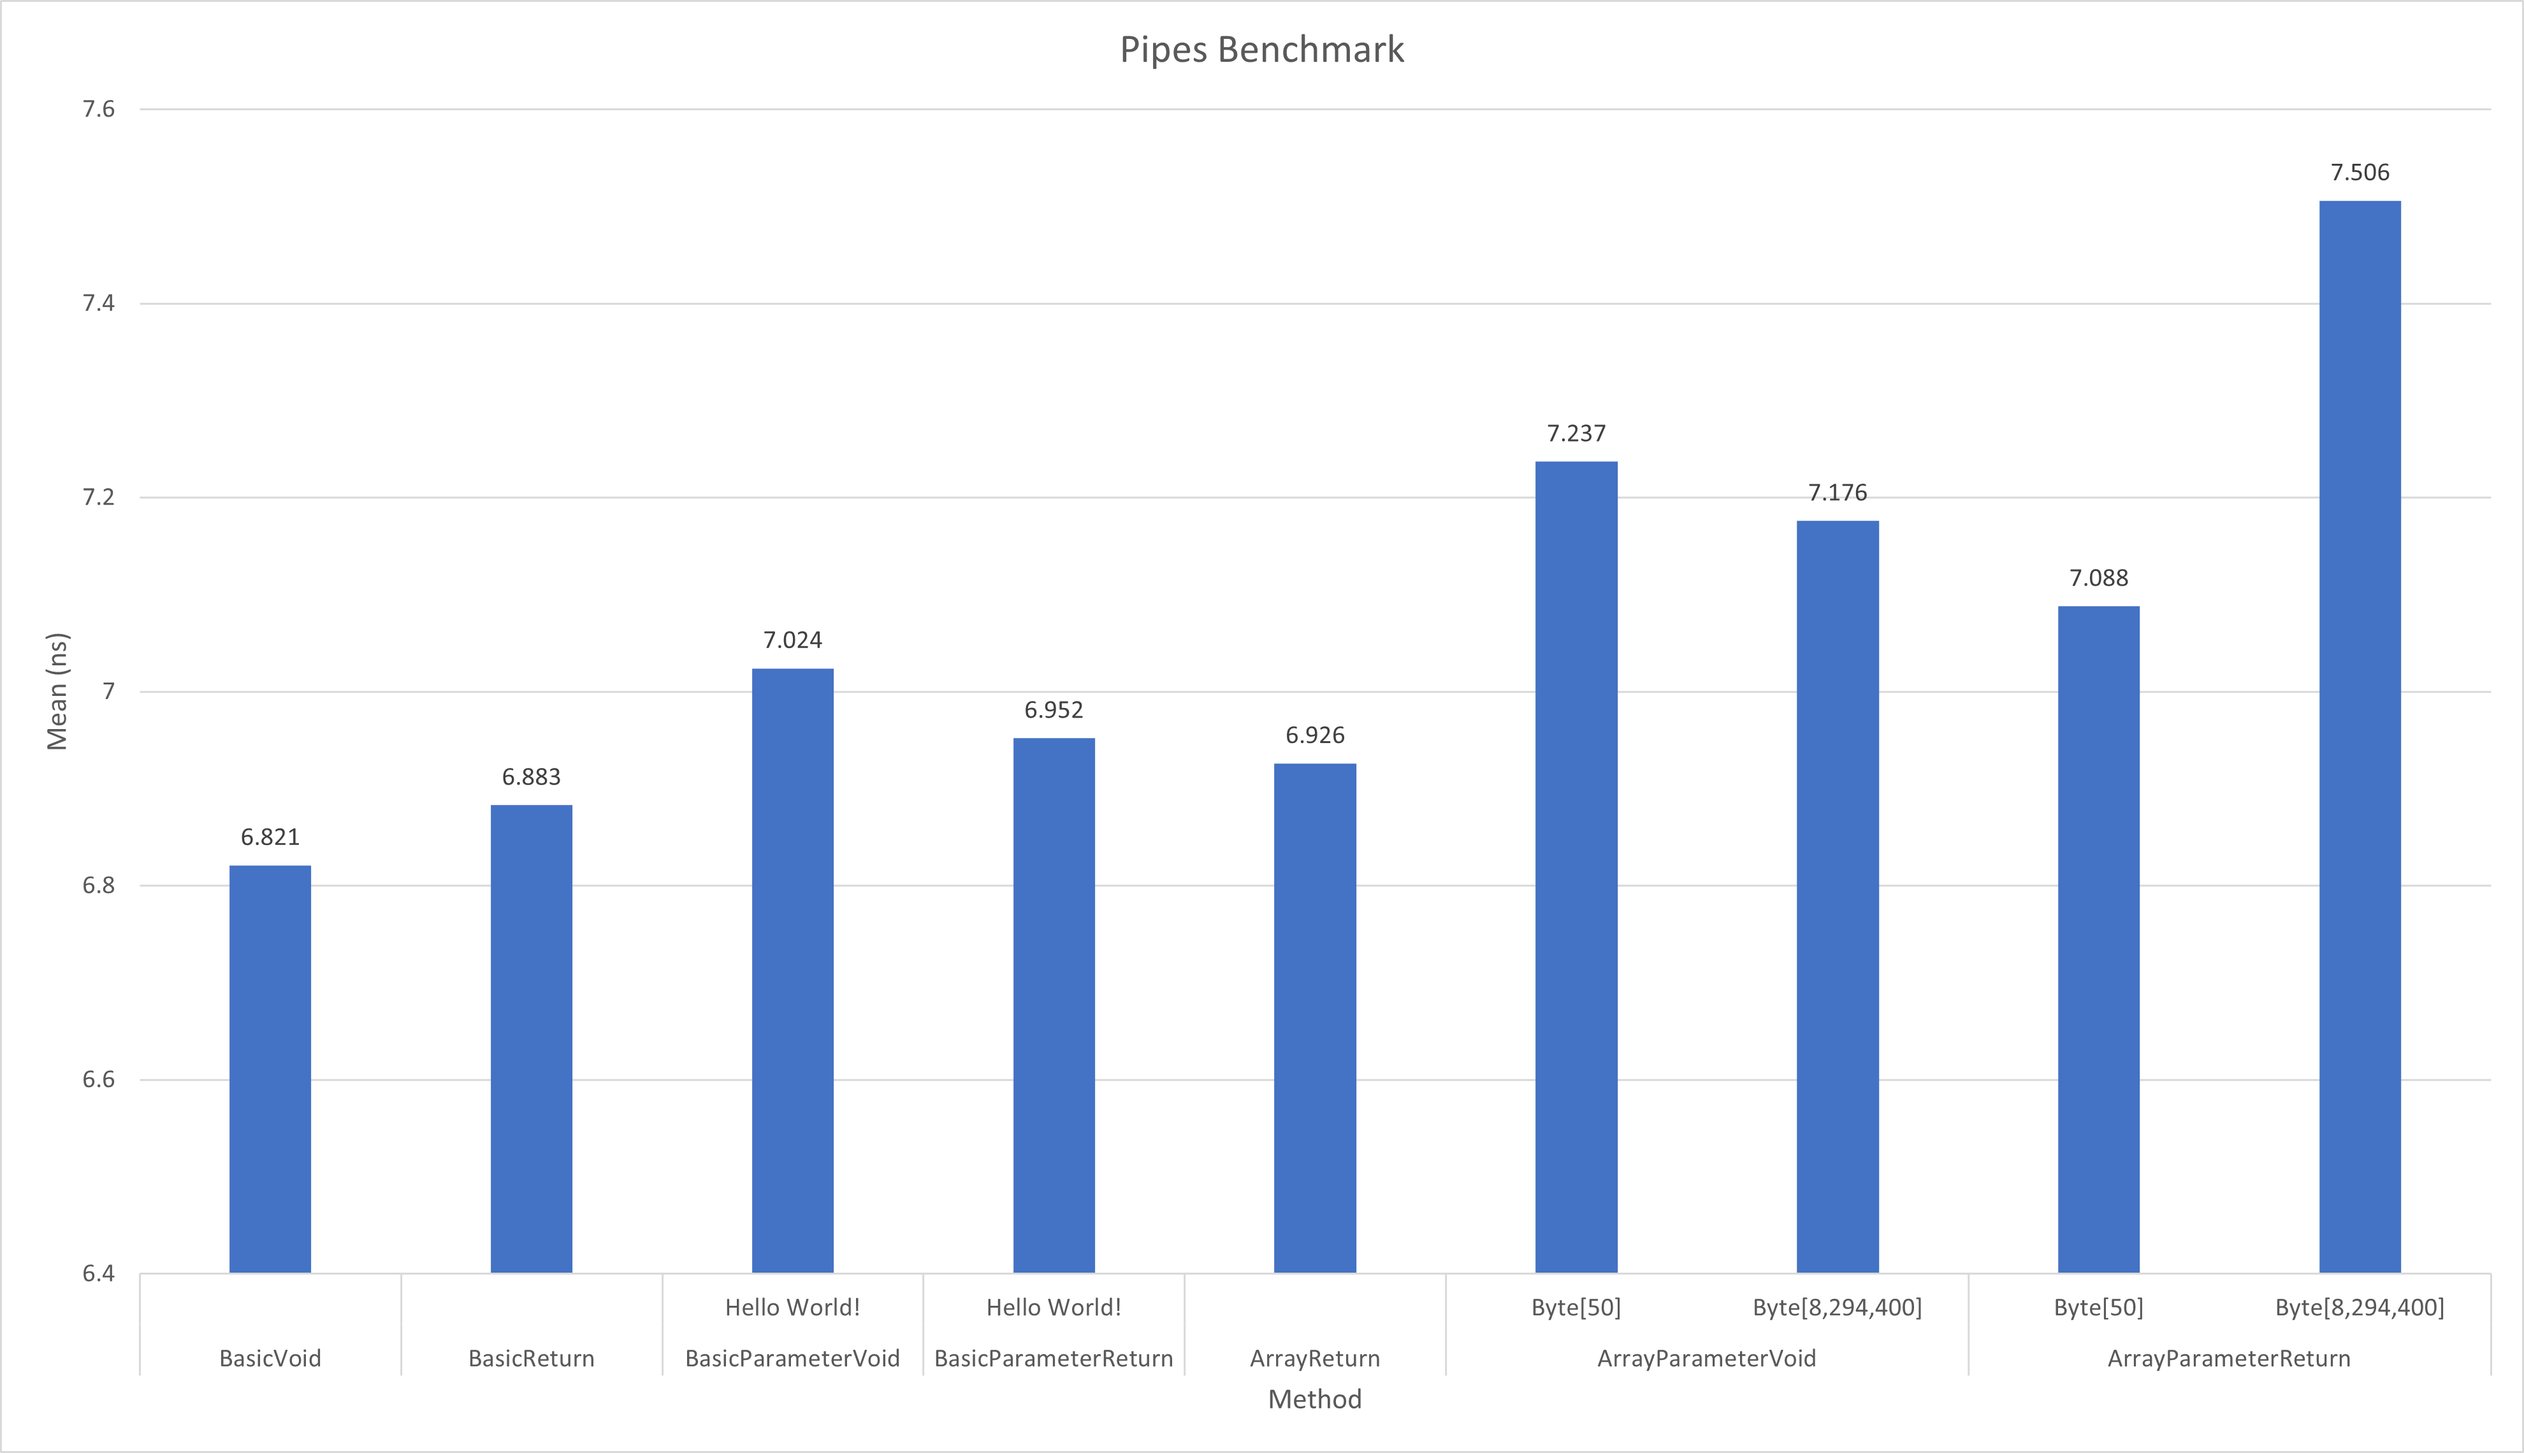
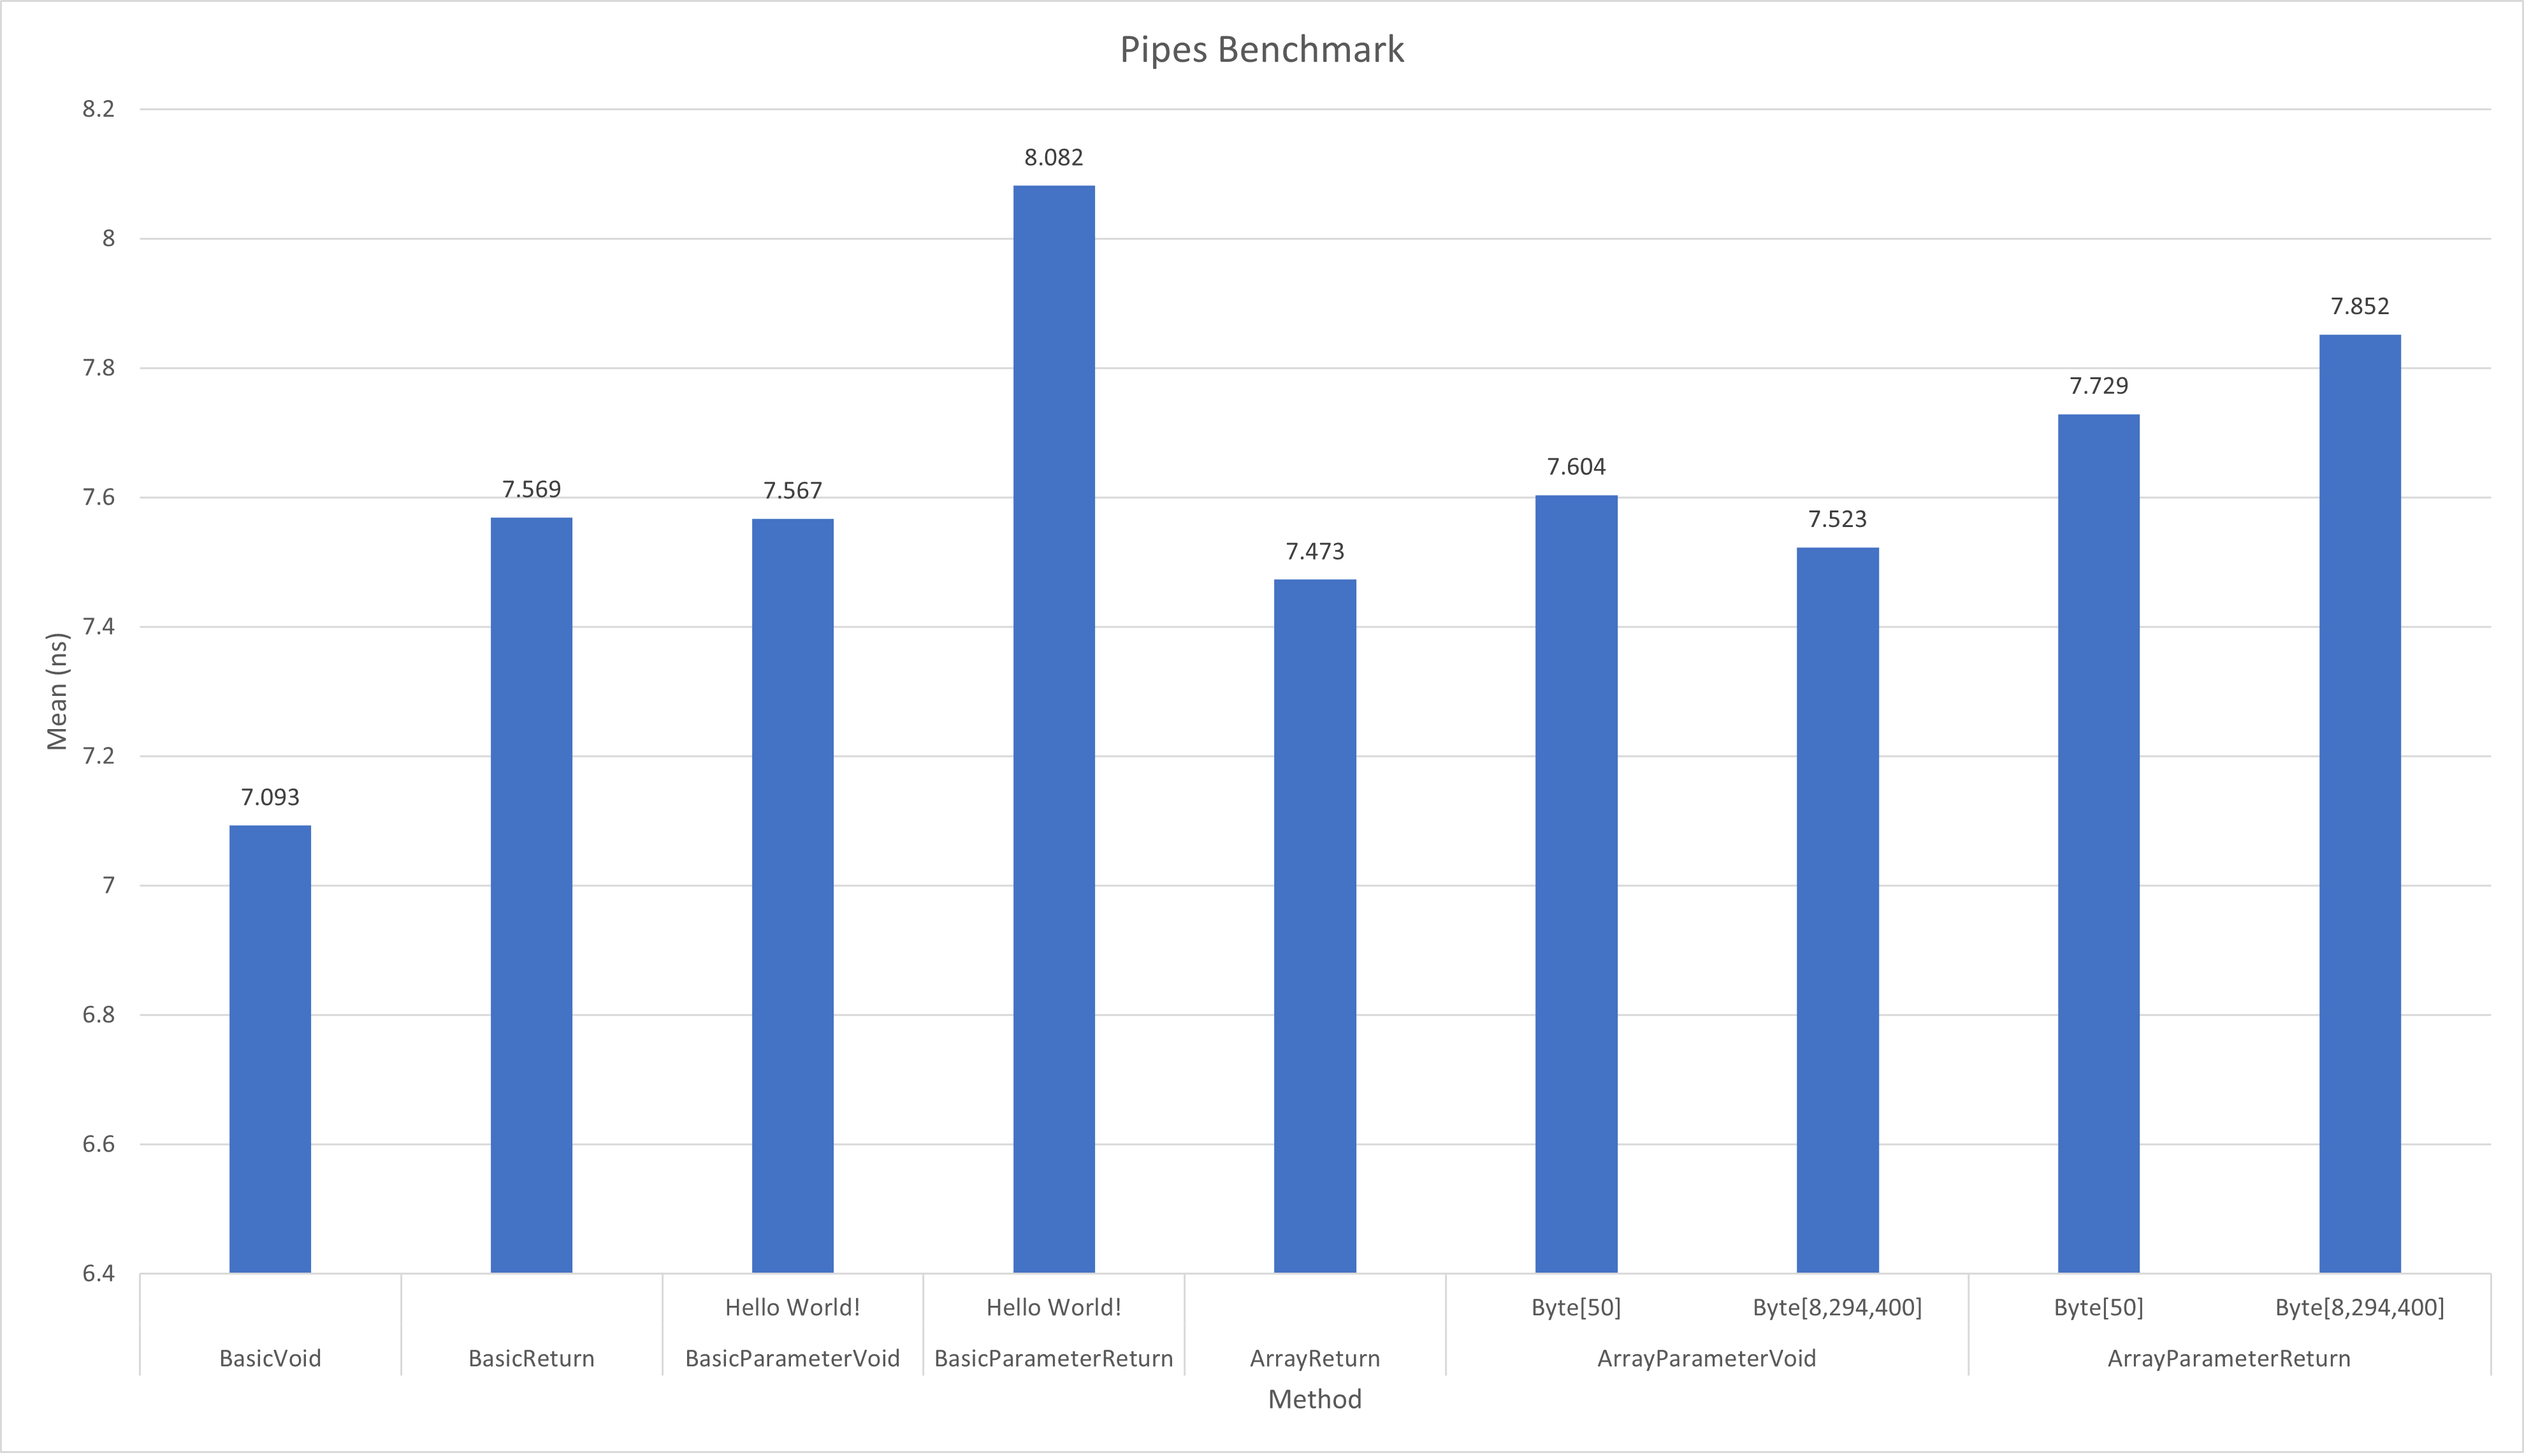
Update pipes benchmark

diff --git a/src/VoltRpc.Benchmarks/Core/VoltRpcBenchmark.cs b/src/VoltRpc.Benchmarks/Core/VoltRpcBenchmark.cs
@@ -28,6 +28,7 @@ namespace VoltRpc.Benchmarks.Core
         {
             host.AddService<IBenchmarkInterface>(new BenchmarkInterfaceImpl());
             host.StartListening();
+            host.MaxConnectionsCount = 1;
             
             client.AddService<IBenchmarkInterface>();
             client.Connect();

diff --git a/docs/index.md b/docs/index.md
@@ -27,15 +27,15 @@ VoltRpc is a library designed for high performance RPC communication. It can use
 
 |               Method | array         |      message |     Mean |     Error |    StdDev |
 |--------------------- |-------------- |------------- |---------:|----------:|----------:|
-|            BasicVoid |     ?         |            ? | 6.821 μs | 0.0889 μs | 0.0832 μs |
-|          BasicReturn |     ?         |            ? | 6.883 μs | 0.1264 μs | 0.1120 μs |
-|   BasicParameterVoid |     ?         | Hello World! | 7.088 μs | 0.0485 μs | 0.0430 μs |
-| BasicParameterReturn |     ?         | Hello World! | 7.506 μs | 0.1465 μs | 0.2407 μs |
-|          ArrayReturn |     ?         |            ? | 7.024 μs | 0.0449 μs | 0.0420 μs |
-|   ArrayParameterVoid |Byte[50]       |            ? | 6.952 μs | 0.0576 μs | 0.0481 μs |
-|   ArrayParameterVoid |Byte[8,294,400]|            ? | 6.926 μs | 0.0649 μs | 0.0607 μs |
-| ArrayParameterReturn |Byte[50]       |            ? | 7.237 μs | 0.0605 μs | 0.0536 μs |
-| ArrayParameterReturn |Byte[8,294,400]|            ? | 7.176 μs | 0.1252 μs | 0.1110 μs |
+|            BasicVoid |     ?         |            ? | 7.093 μs | 0.0721 μs | 0.0602 μs |
+|          BasicReturn |     ?         |            ? | 7.569 μs | 0.0902 μs | 0.0753 μs |
+|   BasicParameterVoid |     ?         | Hello World! | 7.567 μs | 0.0560 μs | 0.0496 μs |
+| BasicParameterReturn |     ?         | Hello World! | 8.082 μs | 0.1501 μs | 0.1787 μs |
+|          ArrayReturn |     ?         |            ? | 7.473 μs | 0.0374 μs | 0.0312 μs |
+|   ArrayParameterVoid |Byte[50]       |            ? | 7.604 μs | 0.0270 μs | 0.0240 μs |
+|   ArrayParameterVoid |Byte[8,294,400]|            ? | 7.523 μs | 0.0901 μs | 0.0752 μs |
+| ArrayParameterReturn |Byte[50]       |            ? | 7.729 μs | 0.0751 μs | 0.0666 μs |
+| ArrayParameterReturn |Byte[8,294,400]|            ? | 7.852 μs | 0.0625 μs | 0.0585 μs |
 
 For more info on these benchmarks see [Benchmarks](articles/benchmarks.md).
 

diff --git a/README.md b/README.md
@@ -145,15 +145,15 @@ Jit=Default  Platform=AnyCpu
 
 |               Method | array         |      message |     Mean |     Error |    StdDev |
 |--------------------- |-------------- |------------- |---------:|----------:|----------:|
-|            BasicVoid |     ?         |            ? | 6.821 μs | 0.0889 μs | 0.0832 μs |
-|          BasicReturn |     ?         |            ? | 6.883 μs | 0.1264 μs | 0.1120 μs |
-|   BasicParameterVoid |     ?         | Hello World! | 7.088 μs | 0.0485 μs | 0.0430 μs |
-| BasicParameterReturn |     ?         | Hello World! | 7.506 μs | 0.1465 μs | 0.2407 μs |
-|          ArrayReturn |     ?         |            ? | 7.024 μs | 0.0449 μs | 0.0420 μs |
-|   ArrayParameterVoid |Byte[50]       |            ? | 6.952 μs | 0.0576 μs | 0.0481 μs |
-|   ArrayParameterVoid |Byte[8,294,400]|            ? | 6.926 μs | 0.0649 μs | 0.0607 μs |
-| ArrayParameterReturn |Byte[50]       |            ? | 7.237 μs | 0.0605 μs | 0.0536 μs |
-| ArrayParameterReturn |Byte[8,294,400]|            ? | 7.176 μs | 0.1252 μs | 0.1110 μs |
+|            BasicVoid |     ?         |            ? | 7.093 μs | 0.0721 μs | 0.0602 μs |
+|          BasicReturn |     ?         |            ? | 7.569 μs | 0.0902 μs | 0.0753 μs |
+|   BasicParameterVoid |     ?         | Hello World! | 7.567 μs | 0.0560 μs | 0.0496 μs |
+| BasicParameterReturn |     ?         | Hello World! | 8.082 μs | 0.1501 μs | 0.1787 μs |
+|          ArrayReturn |     ?         |            ? | 7.473 μs | 0.0374 μs | 0.0312 μs |
+|   ArrayParameterVoid |Byte[50]       |            ? | 7.604 μs | 0.0270 μs | 0.0240 μs |
+|   ArrayParameterVoid |Byte[8,294,400]|            ? | 7.523 μs | 0.0901 μs | 0.0752 μs |
+| ArrayParameterReturn |Byte[50]       |            ? | 7.729 μs | 0.0751 μs | 0.0666 μs |
+| ArrayParameterReturn |Byte[8,294,400]|            ? | 7.852 μs | 0.0625 μs | 0.0585 μs |
 
 For more info on these benchmarks see [Benchmarks](https://voltrpc.voltstro.dev/articles/benchmarks).
 

diff --git a/docs/articles/benchmarks.md b/docs/articles/benchmarks.md
@@ -23,15 +23,15 @@ Jit=Default  Platform=AnyCpu
 
 |               Method | array         |      message |     Mean |     Error |    StdDev |
 |--------------------- |-------------- |------------- |---------:|----------:|----------:|
-|            BasicVoid |     ?         |            ? | 6.821 μs | 0.0889 μs | 0.0832 μs |
-|          BasicReturn |     ?         |            ? | 6.883 μs | 0.1264 μs | 0.1120 μs |
-|   BasicParameterVoid |     ?         | Hello World! | 7.088 μs | 0.0485 μs | 0.0430 μs |
-| BasicParameterReturn |     ?         | Hello World! | 7.506 μs | 0.1465 μs | 0.2407 μs |
-|          ArrayReturn |     ?         |            ? | 7.024 μs | 0.0449 μs | 0.0420 μs |
-|   ArrayParameterVoid |Byte[50]       |            ? | 6.952 μs | 0.0576 μs | 0.0481 μs |
-|   ArrayParameterVoid |Byte[8,294,400]|            ? | 6.926 μs | 0.0649 μs | 0.0607 μs |
-| ArrayParameterReturn |Byte[50]       |            ? | 7.237 μs | 0.0605 μs | 0.0536 μs |
-| ArrayParameterReturn |Byte[8,294,400]|            ? | 7.176 μs | 0.1252 μs | 0.1110 μs |
+|            BasicVoid |     ?         |            ? | 7.093 μs | 0.0721 μs | 0.0602 μs |
+|          BasicReturn |     ?         |            ? | 7.569 μs | 0.0902 μs | 0.0753 μs |
+|   BasicParameterVoid |     ?         | Hello World! | 7.567 μs | 0.0560 μs | 0.0496 μs |
+| BasicParameterReturn |     ?         | Hello World! | 8.082 μs | 0.1501 μs | 0.1787 μs |
+|          ArrayReturn |     ?         |            ? | 7.473 μs | 0.0374 μs | 0.0312 μs |
+|   ArrayParameterVoid |Byte[50]       |            ? | 7.604 μs | 0.0270 μs | 0.0240 μs |
+|   ArrayParameterVoid |Byte[8,294,400]|            ? | 7.523 μs | 0.0901 μs | 0.0752 μs |
+| ArrayParameterReturn |Byte[50]       |            ? | 7.729 μs | 0.0751 μs | 0.0666 μs |
+| ArrayParameterReturn |Byte[8,294,400]|            ? | 7.852 μs | 0.0625 μs | 0.0585 μs |
 
 ## TCP Benchmark
 
